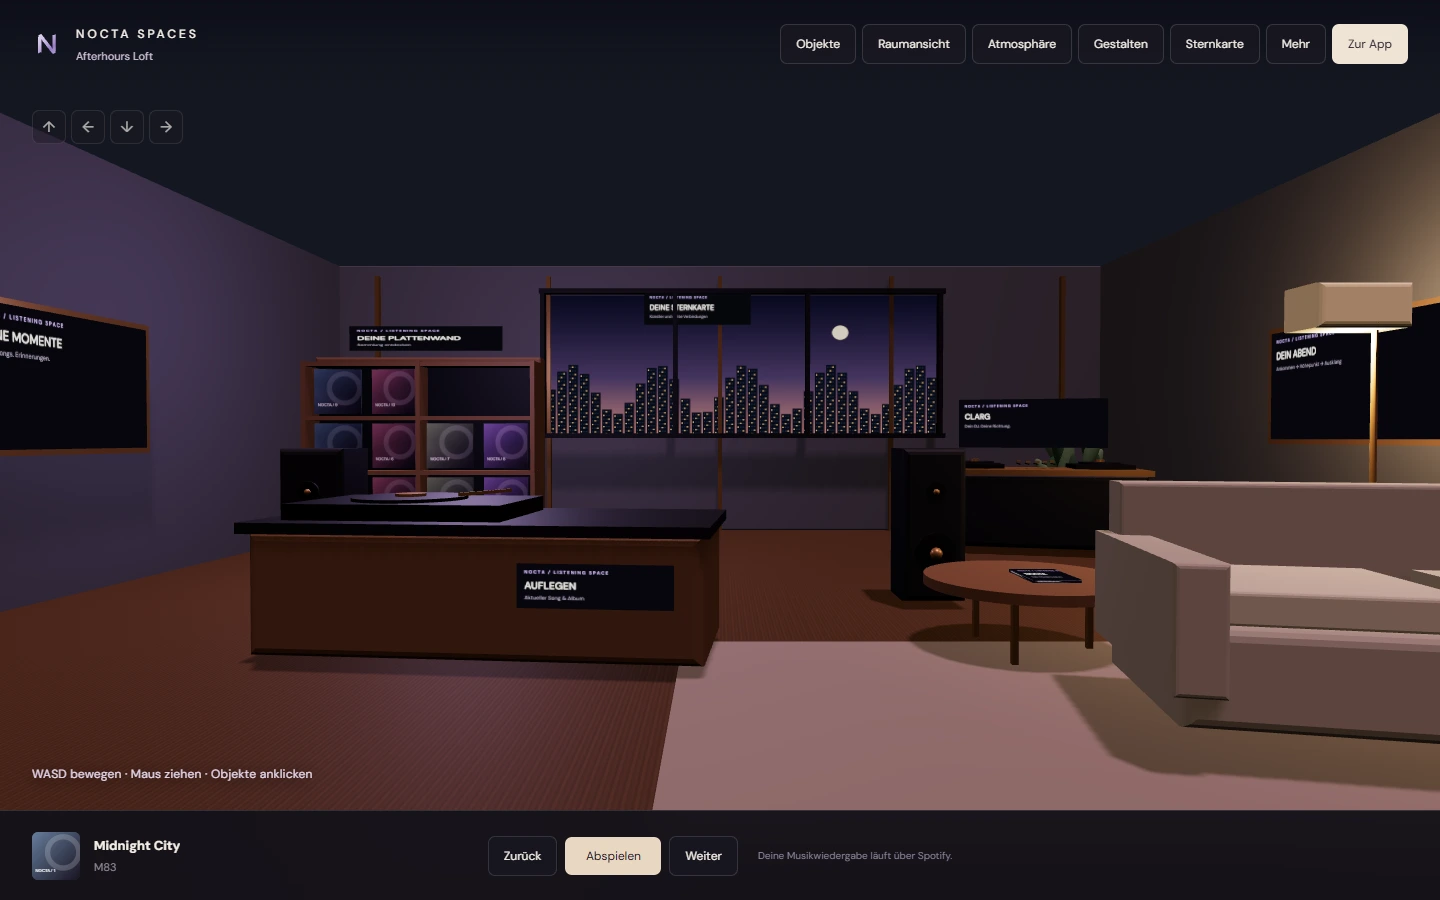
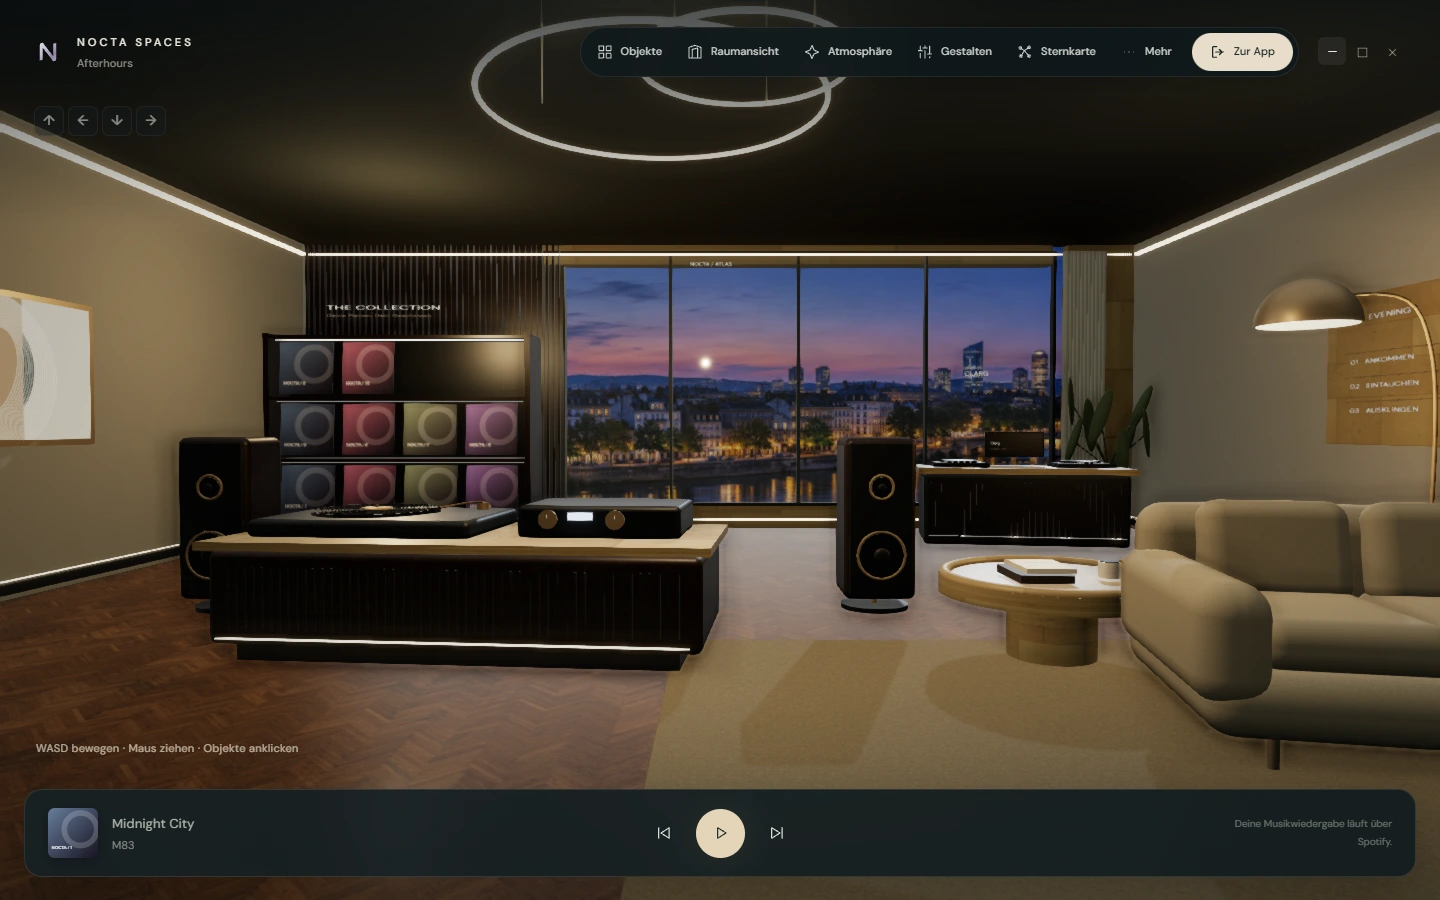
Showcase redesigned Listening Lounge and release NOCTA 1.2.0

diff --git a/docs/index.html b/docs/index.html
@@ -1,11 +1,11 @@
-<!doctype html><html lang="de"><head><meta charset="utf-8"><meta name="viewport" content="width=device-width,initial-scale=1"><meta name="theme-color" content="#101112"><title>NOCTA — Dein Sound. Dein Raum.</title><meta name="description" content="Dein persönlicher Raum für Musik. Entdecke NOCTA für Windows mit begehbarem Listening Loft, Clarg Radio, individuellen Themes und Spotify-Verbindung."><meta property="og:title" content="NOCTA — Dein Sound. Dein Raum."><meta property="og:description" content="Musik hören. Auf deine Art. Entdecke NOCTA für Windows."><link rel="canonical" href="https://tysoncca.github.io/nocta-downloads/"><meta property="og:type" content="website"><meta property="og:image" content="https://tysoncca.github.io/nocta-downloads/assets/home-focus.webp"><link rel="icon" href="assets/logo.svg" type="image/svg+xml"><link rel="stylesheet" href="styles.css?v=2"><script src="app.js?v=3" defer></script></head>
+<!doctype html><html lang="de"><head><meta charset="utf-8"><meta name="viewport" content="width=device-width,initial-scale=1"><meta name="theme-color" content="#101112"><title>NOCTA — Dein Sound. Dein Raum.</title><meta name="description" content="Dein persönlicher Raum für Musik. Entdecke NOCTA für Windows mit begehbarem Listening Loft, Clarg Radio, individuellen Themes und Spotify-Verbindung."><meta property="og:title" content="NOCTA — Dein Sound. Dein Raum."><meta property="og:description" content="Musik hören. Auf deine Art. Entdecke NOCTA für Windows."><link rel="canonical" href="https://tysoncca.github.io/nocta-downloads/"><meta property="og:type" content="website"><meta property="og:image" content="https://tysoncca.github.io/nocta-downloads/assets/home-focus.webp"><link rel="icon" href="assets/logo.svg" type="image/svg+xml"><link rel="stylesheet" href="styles.css?v=2"><script src="app.js?v=4" defer></script></head>
 <body id="top"><header><nav class="wrap nav" aria-label="Hauptnavigation"><a class="brand" href="#top" aria-label="NOCTA Startseite"><img src="assets/logo.svg" alt="" width="30" height="36">NOCTA</a><div class="navlinks"><a href="#entdecken">Entdecken</a><a href="#listening">Das Erlebnis</a><a href="#dein-look">Dein Look</a><a class="nav-download" href="#download">Für Windows <span class="arrow" aria-hidden="true">↗</span></a></div></nav></header>
 <main><section class="hero wrap" aria-labelledby="hero-title"><div class="hero-top"><div><div class="availability"><span class="dot"></span> NOCTA DESKTOP · FÜR DEINEN MOMENT</div><h1 id="hero-title">Mehr als Musik.<br><em>Mehr von dir.</em></h1></div><div class="hero-aside"><p>Clarg Flow, dein Sammlungsstudio und ein persönliches Hörjournal. Eine Welt, die du selbst gestaltest. Entdecke einen neuen Platz für deinen Sound.</p><div class="hero-actions"><a class="btn primary" href="#download"><svg viewBox="0 0 24 24" fill="currentColor" aria-hidden="true"><path d="M2 4l9-1v8H2zm11-1l9-1v9h-9zM2 13h9v8l-9-1zm11 0h9v9l-9-1z"/></svg>Für Windows laden <span aria-hidden="true">↓</span></a><a class="btn secondary" href="#entdecken">NOCTA erleben <span aria-hidden="true">↗</span></a></div><span class="micro">Windows 10 / 11 · x64 · Mit deinem Spotify-Konto</span></div></div><div class="hero-showcase reveal"><div class="hero-frame zoom" role="button" tabindex="0" aria-label="NOCTA Startseite vergrößern" data-title="NOCTA · Dein persönlicher Musikraum"><div class="window-head"><span class="window-dots"><i></i><i></i><i></i></span><span>NOCTA / YOUR SPACE FOR SOUND</span><span>DESKTOP</span></div><img src="assets/home-focus.webp" alt="NOCTA Startseite mit persönlicher Begrüßung, Musikempfehlung und nächster Warteschlange" width="1440" height="1000" fetchpriority="high"></div><div class="hero-float" aria-hidden="true"><span class="equalizer"><i style="--h:13px;--d:-.4s"></i><i style="--h:25px;--d:-.8s"></i><i style="--h:18px;--d:-.2s"></i><i style="--h:28px;--d:-.6s"></i><i style="--h:12px;--d:-1s"></i></span><div><b>Weniger Alltag. Mehr Sound.</b><small>Dein nächster Lieblingsmoment wartet.</small></div></div></div><div class="hero-caption"><span>Dein Sound hat ein neues Zuhause.</span><span>App-Ansichten mit Beispieldaten · anklicken zum Vergrößern ↗</span></div></section>
 <div class="wrap chapter-nav"><span>MADE FOR YOUR MOMENT</span><a href="#entdecken">Clarg Radio</a><a href="#listening">Listening Room</a><a href="#dein-look">Theme Studio</a><a href="#mehr">Sound-DNA & mehr</a></div>
-<section id="entdecken" class="wrap"><div class="intro reveal"><div><span class="eyebrow">NEU IN NOCTA 1.1 · SPACES</span><h2>Musik hören.<br>Auf deine Art.</h2></div><p>Plane eigene Sessions mit Clarg Flow, stelle Songs im Sammlungsstudio zusammen und entdecke deinen Rückblick im lokalen Hörjournal. NOCTA Spaces ergänzt einen begehbaren 3D Listening Loft, Foto-Erinnerungen und deine eigene Einrichtung.</p></div><div class="tour-shell reveal"><div class="tour-tabs" role="tablist" aria-label="App-Funktionen"><button class="tour-tab" id="tab-clarg" role="tab" aria-selected="true" aria-controls="tour-panel" data-view="clarg">01 &nbsp; Clarg Radio</button><button class="tour-tab" id="tab-room" role="tab" aria-selected="false" aria-controls="tour-panel" tabindex="-1" data-view="room">02 &nbsp; Listening Loft</button><button class="tour-tab" id="tab-themes" role="tab" aria-selected="false" aria-controls="tour-panel" tabindex="-1" data-view="themes">03 &nbsp; Theme Studio</button><button class="tour-tab" id="tab-insights" role="tab" aria-selected="false" aria-controls="tour-panel" tabindex="-1" data-view="insights">04 &nbsp; Insights</button></div><div class="tour-body" role="tabpanel" id="tour-panel" aria-labelledby="tab-clarg"><div class="tour-copy"><span class="tour-number" id="tour-number">01 / CLARG RADIO</span><h3 id="tour-title">Dein DJ. Deine Richtung.</h3><p id="tour-description">Ein Set, das mit dir weiterzieht. Clarg stellt Songs zusammen und bereitet nach sechs Titeln die nächste Richtung vor.</p><ul id="tour-points"><li>Fortlaufende Radiosets</li><li>Songrouten & Wunschfinale</li><li>Sessions wiederfinden</li></ul><div class="tour-note">Für die Musikwiedergabe gelten die Voraussetzungen deines Spotify-Kontos. KI- und Sprachfunktionen benötigen eine zusätzliche Konfiguration.</div></div><div class="tour-screen zoom" role="button" tabindex="0" aria-label="Ausgewählte App-Ansicht vergrößern"><img id="tour-image" src="assets/clarg-focus.webp" alt="Clarg mit Radio, Songroute, Wunschfinale und Session-Tabs" loading="lazy" width="1440" height="900"></div></div></div></section>
+<section id="entdecken" class="wrap"><div class="intro reveal"><div><span class="eyebrow">NEU IN NOCTA 1.2 · SPACES</span><h2>Musik hören.<br>Auf deine Art.</h2></div><p>Plane eigene Sessions mit Clarg Flow, stelle Songs im Sammlungsstudio zusammen und entdecke deinen Rückblick im lokalen Hörjournal. NOCTA Spaces ergänzt einen begehbaren 3D Listening Loft, Foto-Erinnerungen und deine eigene Einrichtung.</p></div><div class="tour-shell reveal"><div class="tour-tabs" role="tablist" aria-label="App-Funktionen"><button class="tour-tab" id="tab-clarg" role="tab" aria-selected="true" aria-controls="tour-panel" data-view="clarg">01 &nbsp; Clarg Radio</button><button class="tour-tab" id="tab-room" role="tab" aria-selected="false" aria-controls="tour-panel" tabindex="-1" data-view="room">02 &nbsp; Listening Loft</button><button class="tour-tab" id="tab-themes" role="tab" aria-selected="false" aria-controls="tour-panel" tabindex="-1" data-view="themes">03 &nbsp; Theme Studio</button><button class="tour-tab" id="tab-insights" role="tab" aria-selected="false" aria-controls="tour-panel" tabindex="-1" data-view="insights">04 &nbsp; Insights</button></div><div class="tour-body" role="tabpanel" id="tour-panel" aria-labelledby="tab-clarg"><div class="tour-copy"><span class="tour-number" id="tour-number">01 / CLARG RADIO</span><h3 id="tour-title">Dein DJ. Deine Richtung.</h3><p id="tour-description">Ein Set, das mit dir weiterzieht. Clarg stellt Songs zusammen und bereitet nach sechs Titeln die nächste Richtung vor.</p><ul id="tour-points"><li>Fortlaufende Radiosets</li><li>Songrouten & Wunschfinale</li><li>Sessions wiederfinden</li></ul><div class="tour-note">Für die Musikwiedergabe gelten die Voraussetzungen deines Spotify-Kontos. KI- und Sprachfunktionen benötigen eine zusätzliche Konfiguration.</div></div><div class="tour-screen zoom" role="button" tabindex="0" aria-label="Ausgewählte App-Ansicht vergrößern"><img id="tour-image" src="assets/clarg-focus.webp" alt="Clarg mit Radio, Songroute, Wunschfinale und Session-Tabs" loading="lazy" width="1440" height="900"></div></div></div></section>
 <section class="wrap feature" id="listening"><div class="feature-heading reveal"><div><span class="eyebrow">Listening Room</span><h2 class="section-title">Alles wird leiser.<br>Außer deinem Song.</h2></div><p class="body-copy">Raus aus dem Menü. Rein in die Musik. Eine großzügige Ansicht für Cover, Wiedergabe und Songtext – ohne die Ablenkung drumherum.</p></div><div class="listening-stage reveal"><div class="stage-tag"><span>NOCTA / LISTENING ROOM</span><span>EIN MOMENT NUR FÜR DICH</span></div><div class="zoom" role="button" tabindex="0" aria-label="Listening Room vergrößern"><img src="assets/listening-focus.webp" alt="Listening Room: Albumcover und Songtext in einer reduzierten Vollbildansicht" width="1440" height="900" loading="lazy"></div></div><div class="support-row"><div class="reveal"><small>01</small><h3>Deine Musik im Mittelpunkt</h3><p>Großes Cover, klare Bedienelemente und eine ruhige Oberfläche.</p></div><div class="reveal"><small>02</small><h3>Jede Zeile mitfühlen</h3><p>Songtexte direkt im Listening Room, sofern für den Titel verfügbar.</p></div><div class="reveal"><small>03</small><h3>Ein Klick zurück</h3><p>Verlasse die Ansicht und entdecke weiter in deiner Sammlung.</p></div></div></section>
 <section class="wrap personal" id="dein-look"><div class="reveal"><span class="eyebrow">Dein Look. Bis ins Detail.</span><h2 class="section-title">Dein Geschmack.<br>Auch fürs Auge.</h2><p class="body-copy">Dunkel und zurückhaltend. Warm und weich. Oder ganz anders. Gestalte Farben, Menüs, Schriftfarben und Hintergründe. Speichere deine Lieblingslooks und nimm sie mit.</p><div class="palette-label"><span>Probiere eine Farbwelt</span><span id="palette-name" aria-live="polite">Graphit</span></div><div class="swatches" aria-label="Theme-Vorschau"><button class="swatch" style="--swatch:#c6b4e0" aria-label="Graphit" aria-pressed="true" data-palette="graphit"></button><button class="swatch" style="--swatch:#91b9de" aria-label="Mitternacht" aria-pressed="false" data-palette="midnight"></button><button class="swatch" style="--swatch:#e8d8bc" aria-label="Papier" aria-pressed="false" data-palette="paper"></button><button class="swatch" style="--swatch:#b794ee" aria-label="Aurora" aria-pressed="false" data-palette="aurora"></button><button class="swatch" style="--swatch:#a1ceba" aria-label="Forest" aria-pressed="false" data-palette="forest"></button></div></div><div class="theme-demo reveal" aria-label="Illustrative Vorschau der Theme-Farben"><div class="demo-top"><img src="assets/logo.svg" alt=""><span>DEIN MOMENT / 01</span></div><div class="demo-art"><div class="demo-cover"><span>NOCTA SESSIONS</span><b>After<br>the hours.</b></div></div><div class="demo-track"><div><b>Dein nächster Lieblingsmoment</b><small>Dein Sound. Deine Welt.</small></div><span class="demo-play" aria-hidden="true">▶</span></div><div class="demo-progress"><i></i></div><div class="demo-bottom"><span>0:48</span><span>NOCTA / THEME PREVIEW</span><span>3:24</span></div><span class="demo-disclaimer">Interaktive Farbskizze · keine Musikwiedergabe</span></div></section>
 <section class="wrap" id="mehr"><div class="feature-heading reveal"><div><span class="eyebrow">Mehr von dir entdecken</span><h2 class="section-title">Jeder Song erzählt etwas.<br>Auch über dich.</h2></div><p class="body-copy">Finde die Künstler, die deinen Sound prägen. Entdecke Verbindungen und kehre zu Songs zurück, die geblieben sind.</p></div><div class="details-grid"><article class="detail-block reveal"><div class="detail-image zoom" role="button" tabindex="0" aria-label="Sound-DNA vergrößern"><img src="assets/dna-focus.webp" alt="Sound-DNA zeigt persönliche Top-Künstler, Genres und die musikalische Signatur" loading="lazy" width="1440" height="900"></div><div class="detail-text"><span class="eyebrow">Sound-DNA</span><h3>So klingt dein Geschmack.</h3><p>Deine Top-Künstler und Songs, als persönliche Signatur. Verfügbare Genre-Daten ergänzen deinen Überblick.</p></div></article><article class="detail-block reveal"><div class="detail-image zoom" role="button" tabindex="0" aria-label="Zeitreise vergrößern"><img src="assets/travel-focus.webp" alt="Zeitreise vergleicht aktuelle Favoriten mit langfristigen Top-Songs" loading="lazy" width="1440" height="900"></div><div class="detail-text"><span class="eyebrow">Zeitreise</span><h3>Was neu ist. Und was bleibt.</h3><p>Vergleiche deine letzten vier Wochen mit deinen langfristigen Favoriten und speichere deine Auswahl als private Playlist.</p></div></article></div><div class="small-features"><article class="reveal"><svg viewBox="0 0 24 24" aria-hidden="true"><path d="M4 6h16M4 12h16M4 18h16M8 3v6m8 0v6m-5 0v6"/></svg><h3>Dein Sound Studio</h3><p>10-Band-Equalizer und Presets. Unter Windows mit eingerichtetem Equalizer APO.</p></article><article class="reveal"><svg viewBox="0 0 24 24" aria-hidden="true"><rect x="3" y="5" width="18" height="14" rx="4"/><path d="M8 10h2m4 0h2M8 14c2 2 6 2 8 0"/></svg><h3>Auch auf Discord</h3><p>Zeige mit Rich Presence, welchen Song du gerade in NOCTA hörst.</p></article><article class="reveal"><svg viewBox="0 0 24 24" aria-hidden="true"><rect x="3" y="3" width="18" height="18" rx="3"/><path d="M3 16l6-6 5 5 3-3 4 4"/><circle cx="16" cy="8" r="1"/></svg><h3>Dein eigener Hintergrund</h3><p>Nutze deine Bilder und passe Abdunklung, Position und Unschärfe an.</p></article><article class="reveal"><svg viewBox="0 0 24 24" aria-hidden="true"><path d="M4 5h16M4 10h16M4 15h9m3 0l5 3-5 3z"/></svg><h3>Der nächste Song wartet</h3><p>Warteschlange, Favoriten und Titelansicht bleiben direkt erreichbar.</p></article></div></section>
-<section class="download-section" id="download"><div class="wrap download-inner"><div class="reveal"><span class="eyebrow">Deine nächste Session beginnt hier</span><h2>Mach Platz<br>für deinen Sound.</h2><p>Lade NOCTA für Windows herunter, verbinde deinen eigenen Spotify-Account und richte deinen persönlichen Raum ein.</p><p class="setup-note">NOCTA ist ein unabhängiges Projekt und kein offizielles Spotify-Produkt. Die Spotify-Anmeldung kann aktuell eine Freischaltung durch den Entwickler erfordern.</p></div><div class="download-card reveal"><div class="release-top"><div class="brand"><img src="assets/logo.svg" alt="">NOCTA</div><span class="release-badge">DESKTOP · v1.1.1</span></div><dl><div><dt>Plattform</dt><dd>Windows 10 / 11 · x64</dd></div><div><dt>Installer</dt><dd>NOCTA-Setup.exe</dd></div><div><dt>Downloadgröße</dt><dd>80,8 MiB</dd></div></dl><a class="btn primary" data-download href="https://github.com/TysonCCA/nocta-downloads/releases/download/v1.1.1/NOCTA-Setup.exe" download="NOCTA-Setup.exe"><span>Für Windows herunterladen</span><span aria-hidden="true">↓</span></a><p class="micro" id="download-feedback" role="status">Installationsordner im Setup auswählen. Eine vorhandene Installation wird erkannt.</p><div class="release-links"><a href="downloads/SHA256.txt" target="_blank" rel="noopener">SHA-256 Prüfsumme ↗</a><a href="https://github.com/TysonCCA/nocta-downloads" target="_blank" rel="noopener">Auf GitHub ansehen ↗</a></div><p class="micro">Dieser Build ist noch nicht digital signiert. Windows kann einen Hinweis zum unbekannten Herausgeber anzeigen.</p></div></div></section>
+<section class="download-section" id="download"><div class="wrap download-inner"><div class="reveal"><span class="eyebrow">Deine nächste Session beginnt hier</span><h2>Mach Platz<br>für deinen Sound.</h2><p>Lade NOCTA für Windows herunter, verbinde deinen eigenen Spotify-Account und richte deinen persönlichen Raum ein.</p><p class="setup-note">NOCTA ist ein unabhängiges Projekt und kein offizielles Spotify-Produkt. Die Spotify-Anmeldung kann aktuell eine Freischaltung durch den Entwickler erfordern.</p></div><div class="download-card reveal"><div class="release-top"><div class="brand"><img src="assets/logo.svg" alt="">NOCTA</div><span class="release-badge">DESKTOP · v1.2.0</span></div><dl><div><dt>Plattform</dt><dd>Windows 10 / 11 · x64</dd></div><div><dt>Installer</dt><dd>NOCTA-Setup.exe</dd></div><div><dt>Downloadgröße</dt><dd>85,9 MiB</dd></div></dl><a class="btn primary" data-download href="https://github.com/TysonCCA/nocta-downloads/releases/download/v1.2.0/NOCTA-Setup.exe" download="NOCTA-Setup.exe"><span>Für Windows herunterladen</span><span aria-hidden="true">↓</span></a><p class="micro" id="download-feedback" role="status">Installationsordner im Setup auswählen. Eine vorhandene Installation wird erkannt.</p><div class="release-links"><a href="downloads/SHA256.txt" target="_blank" rel="noopener">SHA-256 Prüfsumme ↗</a><a href="https://github.com/TysonCCA/nocta-downloads" target="_blank" rel="noopener">Auf GitHub ansehen ↗</a></div><p class="micro">Dieser Build ist noch nicht digital signiert. Windows kann einen Hinweis zum unbekannten Herausgeber anzeigen.</p></div></div></section>
 <section class="wrap faq" id="fragen"><div class="reveal"><span class="eyebrow">Gut zu wissen</span><h2>Vor dem<br>ersten Play.</h2><p class="body-copy">Die wichtigsten Antworten für deinen Start mit NOCTA.</p></div><div class="reveal"><details><summary>Brauche ich Spotify Premium?</summary><p>Für die Wiedergabe im integrierten Spotify-Player ist Spotify Premium erforderlich. NOCTA verwendet deinen eigenen Spotify-Account. Die API-Freigabe des Projekts begrenzt derzeit, welche Konten sich anmelden können.</p></details><details><summary>Kann ich mich sofort mit jedem Konto anmelden?</summary><p>Noch nicht uneingeschränkt. Die Spotify-Integration befindet sich im Entwicklungsmodus. Dein Konto muss gegebenenfalls zuerst vom Entwickler freigeschaltet werden. Der Download allein garantiert deshalb noch keinen Spotify-Zugang.</p></details><details><summary>Wie installiere oder aktualisiere ich NOCTA?</summary><p>Lade die Setup-Datei herunter und öffne sie. Bei einer Neuinstallation wählst du deinen Installationsordner. Erkennt das Setup eine ältere NOCTA-Version, bietet es ein Update an. Bei gleicher oder neuerer Version kannst du die vorhandene App starten.</p></details><details><summary>Welche Funktionen brauchen zusätzliche Einrichtung?</summary><p>Die KI- und Sprachfunktionen von Clarg sowie KI-Bildbearbeitung benötigen eine passende Konfiguration und einen eigenen API-Zugang. Der Equalizer benötigt Equalizer APO am Windows-Ausgabegerät. Für Discord Rich Presence muss Discord Desktop laufen. Songtexte sind nicht für jeden Titel verfügbar.</p></details><details><summary>Ist NOCTA auch für macOS oder mein Handy verfügbar?</summary><p>Der angebotene Installer ist für Windows auf 64-Bit-PCs. Eine native Version für macOS, iOS oder Android wird hier derzeit nicht angeboten.</p></details><details><summary>Werden die Bilder genauso in meiner App aussehen?</summary><p>Die Screenshots zeigen die NOCTA-Oberfläche mit Beispieldaten. Deine Songs, Künstler, Statistiken und verfügbaren Inhalte hängen von deinem Spotify-Konto ab. Farben und Hintergründe kannst du selbst gestalten.</p></details></div></section></main>
 <footer><div class="wrap"><div class="footer-top"><a class="brand" href="#top"><img src="assets/logo.svg" alt="">NOCTA</a><div><a href="#entdecken">Entdecken</a><a href="#download">Download</a><a href="https://github.com/TysonCCA/nocta-downloads" target="_blank" rel="noopener">GitHub ↗</a><a href="#fragen">Fragen</a></div></div><div class="footer-bottom"><span>© 2026 NOCTA · Musik hören. Auf deine Art.</span><span>Unabhängiges Desktop-Projekt. Spotify ist eine Marke von Spotify AB.</span></div></div></footer><dialog id="image-dialog" class="lightbox" aria-labelledby="image-title"><header><span id="image-title">App-Vorschau</span><button aria-label="Bild schließen">×</button></header><img src="assets/home-focus.webp" alt="App-Vorschau"></dialog></body></html>

diff --git a/docs/app.js b/docs/app.js
@@ -1,6 +1,6 @@
 const views={
  clarg:{n:'01 / CLARG RADIO',title:'Dein DJ. Deine Richtung.',text:'Ein Set, das mit dir weiterzieht. Clarg stellt Songs zusammen und bereitet nach sechs Titeln die nächste Richtung vor.',items:['Fortlaufende Radiosets','Songrouten & Wunschfinale','Sessions wiederfinden'],image:'assets/clarg-focus.webp',alt:'Clarg mit Radio, Songroute, Wunschfinale und Session-Tabs'},
- room:{n:'02 / NOCTA SPACES',title:'Deine Musik wird begehbar.',text:'Betritt deinen Listening Loft, wähle Platten aus deiner Sammlung und besuche Clargs Booth. Gestalte deine Einrichtung und bewahre Songs mit eigenen Fotos im lokalen Musikmuseum.',items:['WASD-Steuerung & anklickbare Objekte','Vier Atmosphären & Möbel-Editor','Foto-Museum & Künstler-Sternkarte'],image:'assets/loft.webp',alt:'NOCTA Listening Loft mit Plattenwand, Plattenspieler, Sofa und Clarg-Booth; Beispieldaten'},
+ room:{n:'02 / NOCTA SPACES',title:'Ein neuer Raum für deinen Sound.',text:'Panoramafenster, dunkles Holz, warme Lichtakzente: Deine neue Listening Lounge verbindet eine begehbare 3D-Ansicht mit Plattensammlung, Clargs DJ-Booth und deinem persönlichen Musikmuseum.',items:['WASD-Steuerung & anklickbare Objekte','Vier Atmosphären & Möbel-Editor','Foto-Museum & Künstler-Sternkarte'],image:'assets/loft.webp?v=120',alt:'NOCTA Listening Loft mit Plattenwand, Plattenspieler, Sofa und Clarg-Booth; Beispieldaten'},
  themes:{n:'03 / THEME STUDIO',title:'Sieht nach dir aus.',text:'Wähle eine Farbwelt oder gestalte deine eigene. Vom Menühintergrund bis zur Schriftfarbe passt du NOCTA an deinen Geschmack an.',items:['Eigene RGB- & HEX-Farben','Eigene Hintergrundbilder','Looks speichern & importieren'],image:'assets/themes-focus.webp',alt:'Theme Studio mit verschiedenen Farbpaletten'},
  insights:{n:'04 / LISTENING INSIGHTS',title:'Dein Geschmack, im Blick.',text:'Entdecke deine Top-Songs und Künstler über verschiedene Zeiträume. Deine Sound-DNA und Zeitreise zeigen, was dich gerade begleitet und was bleibt.',items:['4 Wochen, 6 Monate, Gesamt','Top-Künstler & Top-Songs','Heute und früher vergleichen'],image:'assets/insights-focus.webp',alt:'Listening Insights mit Künstlern, Top-Songs und Zeitraum-Auswahl'}
 };

diff --git a/README.md b/README.md
@@ -1,6 +1,6 @@
 # NOCTA Desktop
 
-[Visit the website](https://tysoncca.github.io/nocta-downloads/) · [Download NOCTA for Windows](https://github.com/TysonCCA/nocta-downloads/releases/download/v1.1.1/NOCTA-Setup.exe)
+[Visit the website](https://tysoncca.github.io/nocta-downloads/) · [Download NOCTA for Windows](https://github.com/TysonCCA/nocta-downloads/releases/download/v1.2.0/NOCTA-Setup.exe)
 
 The product website lives in `docs/` and is served with GitHub Pages. No build step or runtime dependencies are required. Fonts, images and styles are hosted locally. The installer is distributed as a GitHub release asset, not stored in Git history.
 
@@ -10,6 +10,6 @@ Serve `docs/` with any static HTTP server. JavaScript enhances the feature tabs,
 
 ## Releases
 
-Current download: **1.1.1**, Windows x64. See `docs/downloads/SHA256.txt` for the installer checksum. This build is unsigned; Spotify account access is currently restricted by development-mode authorization.
+Current download: **1.2.0**, Windows x64. See `docs/downloads/SHA256.txt` for the installer checksum. This build is unsigned; Spotify account access is currently restricted by development-mode authorization.
 
 App screenshots contain example data. Font licenses are included under `docs/assets/fonts/`.
